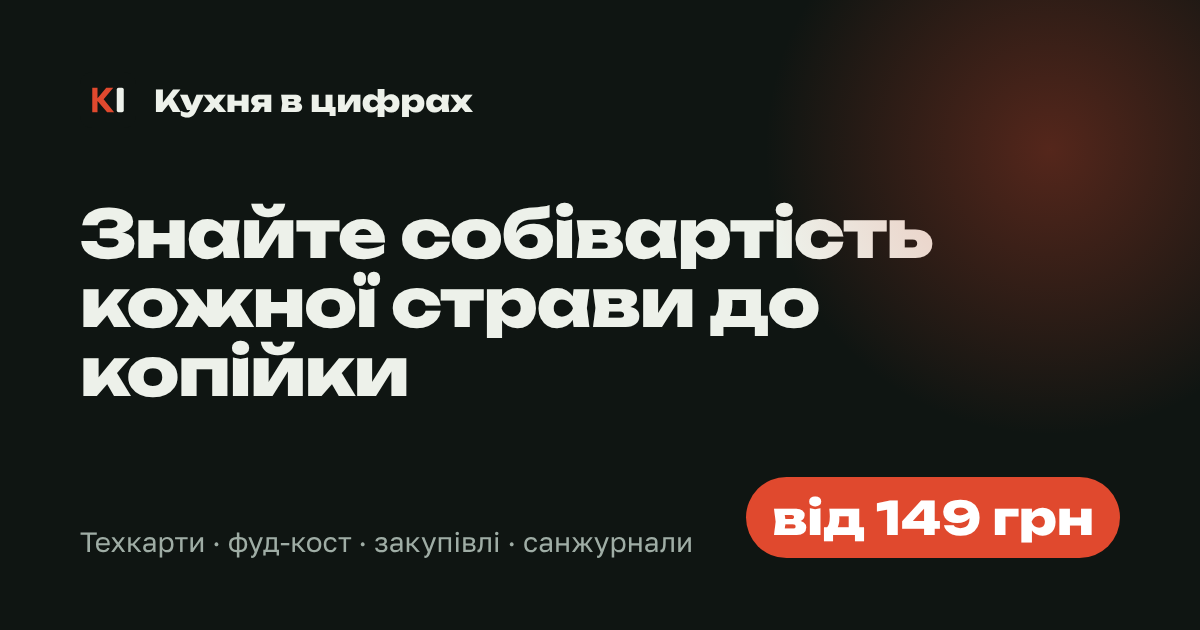
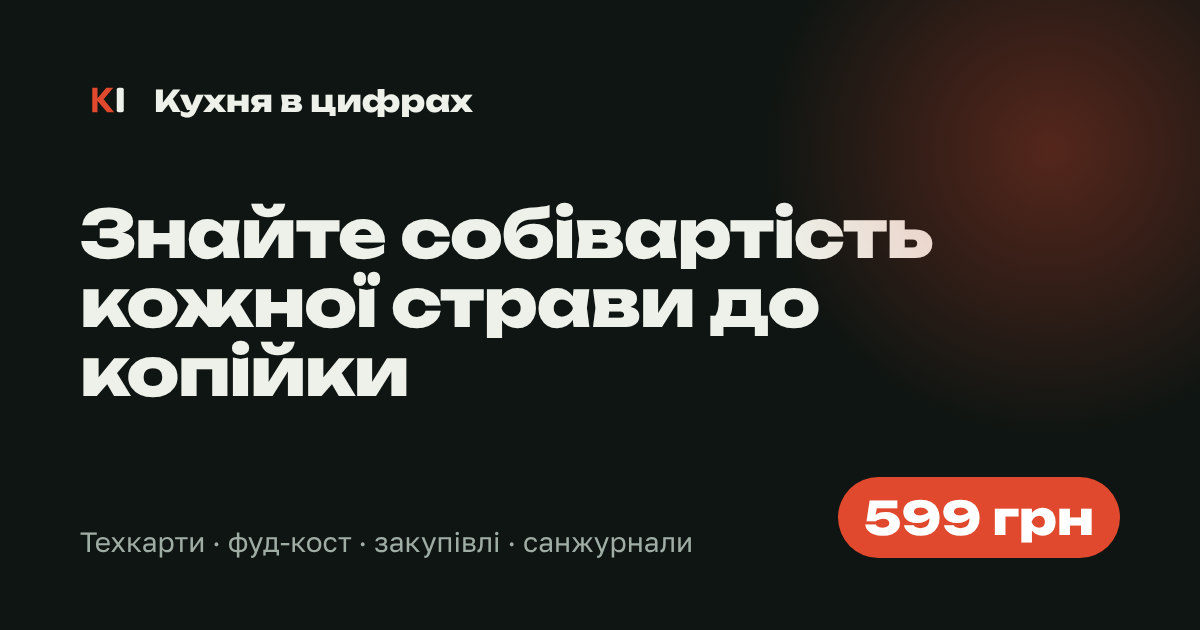
Один продукт за одну ціну
Замість кількох варіантів і доплат на сайті лишився повний пакет з однією
ціною. Оновлено ціни в розмітці, OG-картинку і README.

Changed region(s): [[0.6167, 0.754, 0.8017, 0.9048]]

diff --git a/index.html b/index.html
@@ -4,7 +4,7 @@
 <meta charset="utf-8">
 <meta name="viewport" content="width=device-width, initial-scale=1, viewport-fit=cover">
 <title>Кухня в цифрах — техкарти і фуд-кост для кафе та піцерій</title>
-<meta name="description" content="Готові Google-таблиці для кафе і піцерій: техкарти з автоматичною собівартістю та фуд-костом, закупівлі й інвентаризація, санітарні журнали. Від 149 грн.">
+<meta name="description" content="Готові Google-таблиці для кафе і піцерій: техкарти з автоматичною собівартістю та фуд-костом, закупівлі й інвентаризація, санітарні журнали. Усі три таблиці — 599 грн.">
 <link rel="canonical" href="https://kukhnya-v-tsyfrakh.vercel.app/">
 <meta name="theme-color" content="#0f1512">
 <meta property="og:type" content="website">
@@ -29,9 +29,7 @@
     { "@type": "Organization", "@id": "https://kukhnya-v-tsyfrakh.vercel.app/#org", "name": "Кухня в цифрах", "url": "https://kukhnya-v-tsyfrakh.vercel.app/", "logo": "https://kukhnya-v-tsyfrakh.vercel.app/img/favicon.svg" },
     { "@type": "WebSite", "name": "Кухня в цифрах", "url": "https://kukhnya-v-tsyfrakh.vercel.app/", "inLanguage": "uk" },
     { "@type": "Product", "name": "Набір «Кухня під контролем»", "description": "Три Google-таблиці для кафе і піцерій: техкарти і собівартість, закупівлі та інвентаризація, санітарні журнали.", "brand": { "@id": "https://kukhnya-v-tsyfrakh.vercel.app/#org" }, "image": "https://kukhnya-v-tsyfrakh.vercel.app/img/og.png",
-      "offers": { "@type": "Offer", "price": "449", "priceCurrency": "UAH", "availability": "https://schema.org/PreOrder", "url": "https://kukhnya-v-tsyfrakh.vercel.app/#order" } },
-    { "@type": "Product", "name": "Техкарти і собівартість", "description": "Google-таблиця техкарт: собівартість порції, фуд-кост, рекомендована ціна в меню.", "brand": { "@id": "https://kukhnya-v-tsyfrakh.vercel.app/#org" },
-      "offers": { "@type": "Offer", "price": "249", "priceCurrency": "UAH", "availability": "https://schema.org/PreOrder" } },
+      "offers": { "@type": "Offer", "price": "599", "priceCurrency": "UAH", "availability": "https://schema.org/PreOrder", "url": "https://kukhnya-v-tsyfrakh.vercel.app/#order" } },
     { "@type": "FAQPage", "mainEntity": [
       { "@type": "Question", "name": "У мене Excel, а не Google Таблиці", "acceptedAnswer": { "@type": "Answer", "text": "Файли працюють і в Excel, і в Google Таблицях. Формули ті самі." } },
       { "@type": "Question", "name": "Підійде для кав'ярні чи бургерної?", "acceptedAnswer": { "@type": "Answer", "text": "Так. Приклади зроблені для піцерії, але продукти і страви ви вписуєте свої, тож формат закладу не важливий." } },
@@ -61,7 +59,7 @@
         <div class="eyebrow">Google-таблиці для кафе і піцерій</div>
         <h1>Знайте собівартість кожної страви <em>до копійки</em></h1>
         <p>Техкарти, фуд-кост і ціна в меню рахуються самі. Нижче — як таблиця рахує одну піцу.</p>
-        <div class="row"><a class="btn" href="#order">Набір за 449 грн</a><a class="btn ghost" href="#products">Що всередині</a></div>
+        <div class="row"><a class="btn" href="#order">Усі три таблиці — 599 грн</a><a class="btn ghost" href="#products">Що всередині</a></div>
       </div>
       <aside class="ledger" aria-label="Техкарта піци">
         <div class="ledger-head"><span>Техкарта · Пепероні 30 см</span><span>грн</span></div>
@@ -133,24 +131,21 @@
           <div class="tag">Собівартість</div><h3>Техкарти і собівартість</h3>
           <p>Продукти з відходом при обробці, техкарти страв, фуд-кост, рекомендована ціна і статус для кожної страви.</p>
           <ul><li>До 60 продуктів і 100 страв</li><li>Ціна чистого продукту з урахуванням відходу</li><li>Приклад: 2 піци і салат уже заповнені</li></ul>
-          <div class="price">249 грн</div>
         </article>
         <article class="product">
           <div class="tag">Склад</div><h3>Закупівлі та інвентаризація</h3>
           <p>Довідник із мінімальним запасом, журнал надходжень та інвентаризація з різницею в одиницях і гривнях.</p>
           <ul><li>Позначка «Замовити», коли запас нижче мінімуму</li><li>Загальна нестача за період однією цифрою</li></ul>
-          <div class="price">249 грн</div>
         </article>
         <article class="product">
           <div class="tag">Журнали</div><h3>Санітарні журнали</h3>
           <p>Температура обладнання, здоров'я персоналу, вхідний контроль, бракераж, прибирання і дезінфекція.</p>
           <ul><li>Температура поза нормою підсвічується червоним</li><li>Налаштовано для друку на A4</li></ul>
-          <div class="price">149 грн</div>
         </article>
       </div>
       <div class="bundle">
-        <div><div class="kicker">Набір</div><h3>«Кухня під контролем» — усі три таблиці</h3><p>Окремо вони коштують 647 грн. Набором — на 198 грн дешевше.</p></div>
-        <div class="price-big">449 грн<small>замість 647 грн окремо</small></div>
+        <div><div class="kicker">Ціна</div><h3>«Кухня під контролем» — усі три таблиці</h3><p>Один платіж, без підписки. Для порівняння: піца за 249 грн з фуд-костом 38% замість 30% недоотримує близько 20 грн. При 30 піцах на день це майже 18 000 грн на місяць.</p></div>
+        <div class="price-big">599 грн<small>один раз, без підписки</small></div>
       </div>
     </div>
   </section>
@@ -160,7 +155,7 @@
       <div class="kicker">Як це працює</div>
       <h2 class="title">Від заявки до першої техкарти — один вечір</h2>
       <ol class="steps">
-        <li><h3>Залишаєте заявку</h3><p>Обираєте таблицю або набір і залишаєте контакт. Ми пишемо вам у Telegram або телефоном.</p></li>
+        <li><h3>Залишаєте заявку</h3><p>Залишаєте контакт. Ми пишемо вам у Telegram або телефоном.</p></li>
         <li><h3>Отримуєте посилання</h3><p>Посилання «Створити копію» відкриває таблицю у вашому Google-акаунті. Підходить і для Excel.</p></li>
         <li><h3>Вписуєте свої продукти</h3><p>Жовті клітинки заповнюєте ви, решта рахується сама. Інструкція — на першому аркуші.</p></li>
       </ol>
@@ -172,17 +167,11 @@
       <div>
         <div class="kicker">Замовлення</div>
         <h2 class="title">Оформити передзамовлення</h2>
-        <p class="lead">Ми запускаємо оплату на сайті. Залиште контакт — надішлемо реквізити і таблиці, щойно все запрацює. Ціни на сторінці остаточні.</p>
+        <p class="lead">Ми запускаємо оплату на сайті. Залиште контакт — надішлемо реквізити і таблиці, щойно все запрацює. Ціна на сторінці остаточна.</p>
       </div>
       <form id="orderForm" novalidate>
-        <label for="product">Що берете
-          <select id="product" name="product">
-            <option>Набір «Кухня під контролем» — 449 грн</option>
-            <option>Техкарти і собівартість — 249 грн</option>
-            <option>Закупівлі та інвентаризація — 249 грн</option>
-            <option>Санітарні журнали — 149 грн</option>
-          </select>
-        </label>
+        <input type="hidden" name="product" value="Набір «Кухня під контролем» — 599 грн">
+        <div class="order-line"><span>«Кухня під контролем»: техкарти, закупівлі, санжурнали</span><b>599 грн</b></div>
         <label for="name">Ім'я<input id="name" name="name" autocomplete="name" required></label>
         <label for="contact">Telegram або телефон<input id="contact" name="contact" required placeholder="@username або +380…" autocomplete="tel"></label>
         <label for="venue">Заклад (необов'язково)<input id="venue" name="comment" placeholder="Піцерія, кав'ярня, місто"></label>

diff --git a/assets/css/site.css b/assets/css/site.css
@@ -1,6 +1,6 @@
 /* Кухня в цифрах — ledger aesthetic.
    Layout: a dark static hero with the product preview, then a steps block opens the page,
-   then a light «paper» price list, how-it-works, order form and FAQ. */
+   then a light «paper» product list with one price, how-it-works, order form and FAQ. */
 @font-face { font-family: 'Unbounded'; font-weight: 700; font-display: swap; src: url('../../fonts/unbounded-cyrillic-700-normal.woff2') format('woff2'); unicode-range: U+0400-045F, U+0490-0491, U+04B0-04B1, U+2116; }
 @font-face { font-family: 'Unbounded'; font-weight: 700; font-display: swap; src: url('../../fonts/unbounded-latin-700-normal.woff2') format('woff2'); unicode-range: U+0000-00FF, U+2000-206F, U+20AC, U+2212; }
 @font-face { font-family: 'Unbounded'; font-weight: 800; font-display: swap; src: url('../../fonts/unbounded-cyrillic-800-normal.woff2') format('woff2'); unicode-range: U+0400-045F, U+0490-0491, U+04B0-04B1, U+2116; }
@@ -95,7 +95,6 @@ h2.title { font-family: var(--display); font-weight: 800; font-size: clamp(28px,
 .product h3 { font-family: var(--display); font-weight: 700; font-size: 21px; line-height: 1.2; margin: 0; }
 .product p { margin: 0; color: var(--muted); }
 .product ul { margin: 0; padding-left: 18px; color: var(--muted); font-size: 15.5px; display: grid; gap: 4px; }
-.product .price { margin-top: auto; padding-top: 14px; border-top: 1px dashed var(--line); font-family: var(--display); font-weight: 800; font-size: 28px; font-variant-numeric: tabular-nums; }
 .bundle { margin-top: 18px; background: var(--ink); color: var(--paper); border-radius: 22px; padding: 32px; display: grid; grid-template-columns: 1fr auto; gap: 28px; align-items: center; }
 .bundle h3 { font-family: var(--display); font-weight: 800; font-size: clamp(22px, 2.6vw, 30px); margin: 6px 0 8px; }
 .bundle p { margin: 0; opacity: .75; }
@@ -162,3 +161,5 @@ footer a { text-decoration: none; } footer a:hover { text-decoration: underline;
   .hero .ledger, .hero .weeks-ui { justify-self: stretch; max-width: none; }
   .hero .cap { bottom: auto; }
 }
+.order-line { display: flex; justify-content: space-between; gap: 12px; align-items: baseline; padding-bottom: 14px; border-bottom: 1px solid var(--line); font-size: 15.5px; }
+.order-line b { font-family: var(--display); font-size: 22px; white-space: nowrap; font-variant-numeric: tabular-nums; }

diff --git a/README.md b/README.md
@@ -2,7 +2,7 @@
 
 Лендинг готових Google-таблиць для кафе і піцерій: техкарти й собівартість, закупівлі та інвентаризація, санітарні журнали.
 
-Статичний сайт без збірки: HTML + CSS + JS-модулі, Three.js лежить локально у `vendor/`, шрифти — у `fonts/`. Заявки з форми йдуть у Telegram через серверну функцію Vercel `api/order.js`.
+Статичний сайт без збірки: HTML + CSS + JS-модулі, шрифти — у `fonts/`. Заявки з форми йдуть у Telegram через серверну функцію Vercel `api/order.js`.
 
 **Перший екран.** Статичний: заголовок і готова техкарта піци з собівартістю 95,35 грн і фуд-костом. Під ним — п'ять кроків, як таблиця рахує цю піцу. Без відео й анімацій, тож сторінка легка і швидко відкривається на телефоні.
 
@@ -19,7 +19,7 @@
 - `title`, `description`, canonical, Open Graph і Twitter-картка (`img/og.png`, 1200×630).
 - JSON-LD: Organization, WebSite, Product з Offer (`PreOrder`), FAQPage.
 - `robots.txt`, `sitemap.xml`, `site.webmanifest`, favicon SVG.
-- Шрифти й Three.js віддаються з власного домену з довгим кешем (`vercel.json`).
+- Шрифти віддаються з власного домену з довгим кешем (`vercel.json`).
 
 **Якщо підключаєте свій домен** — замініть `https://kukhnya-v-tsyfrakh.vercel.app` на нього в `index.html`, `privacy.html`, `robots.txt` і `sitemap.xml`.
 
